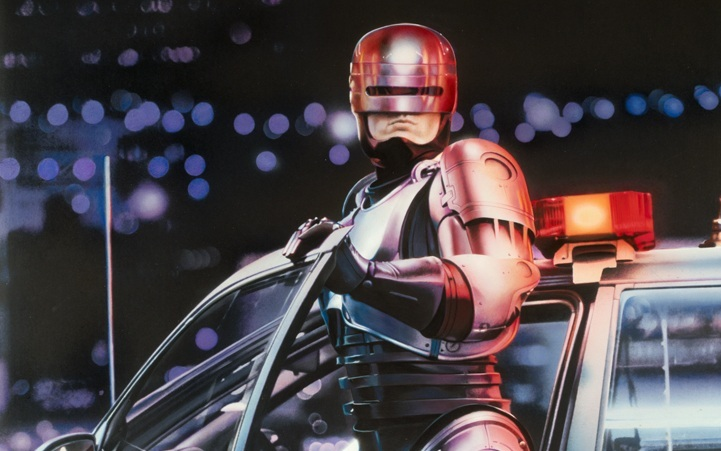
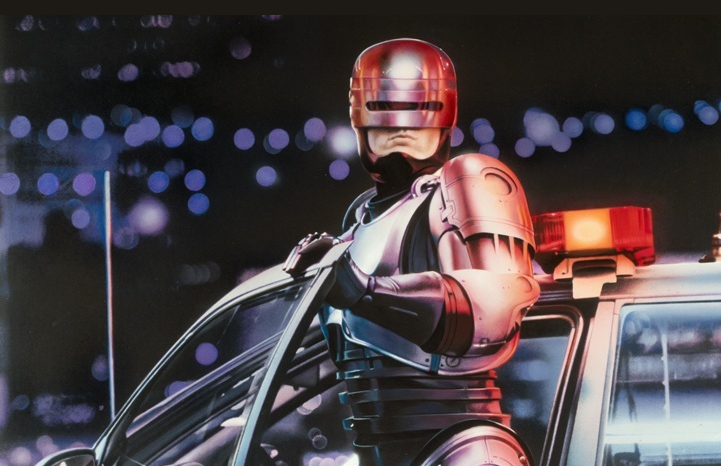
correção no hero

diff --git a/src/styles/_hero.scss b/src/styles/_hero.scss
@@ -11,7 +11,7 @@
         padding-top: calc(60vw + 25px);
         background-size: contain;
         background-repeat: no-repeat;
-        margin-top: -55px;
+        margin-top: -10px;
     }
 
         .button {
@@ -23,7 +23,7 @@
         padding-top: 28vw;
         
         @media (max-width: 768px) {
-        padding-top: 1px;
+        margin-top: -30vw;
     }
 
         &__branding {
